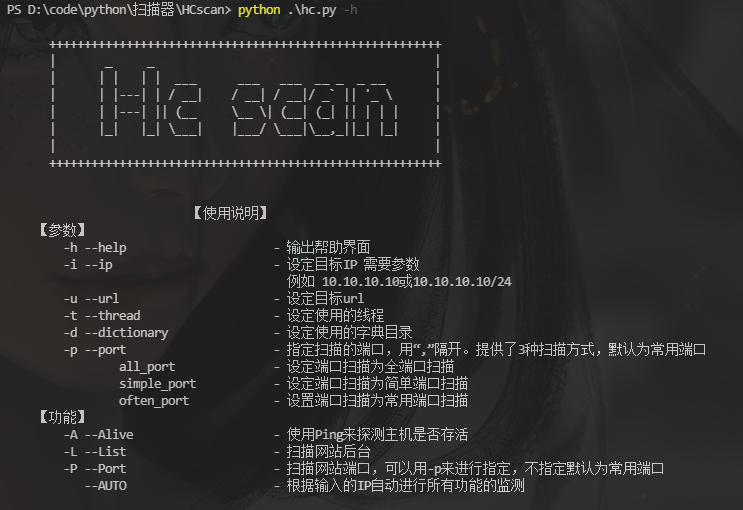
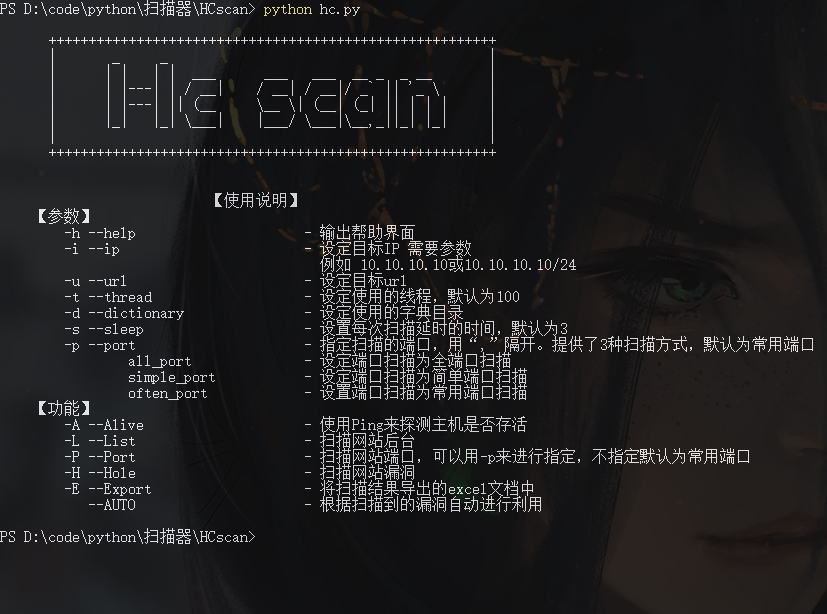
finish

diff --git a/README.md b/README.md
@@ -2,4 +2,14 @@
 
 ![Snipaste_2021-06-19_10-59-57](https://github.com/haochen1204/HCscan/blob/master/picture/help.png)
 
-完成了端口扫描、存活扫描和后台扫描3个功能，但是还没有放后台扫描的目录
+学校大作业，具有端口扫描、存活扫描、目录爆破、简单的漏送扫描并利用的功能，可以设置线程、延时等。具体可以输入-h查看。
+
+存活扫描，采用icmp协议，通过Ping来判断，至少需要-A -i 192.168.0.0/16 2个参数 1个输入
+
+端口扫描，采用tcp协议，可以进行全端口扫描、常用端口扫描和简单端口扫描，至少需要-P -i 2个参数，可使用-p 指定使用的端口（simple_port all_port often_port）
+
+目录扫描，至少需要-L -u 2个参数 -u后需要加入url 建议加入-E 在扫描结束后通过生成的excel查看扫描结果
+
+漏洞扫描，加入了12个漏洞，可以进行扫描和利用，至少需要-H -u 2个参数，加--AUTO参数可以进行自动化利用
+
+其他请输入-h查看帮助文档
